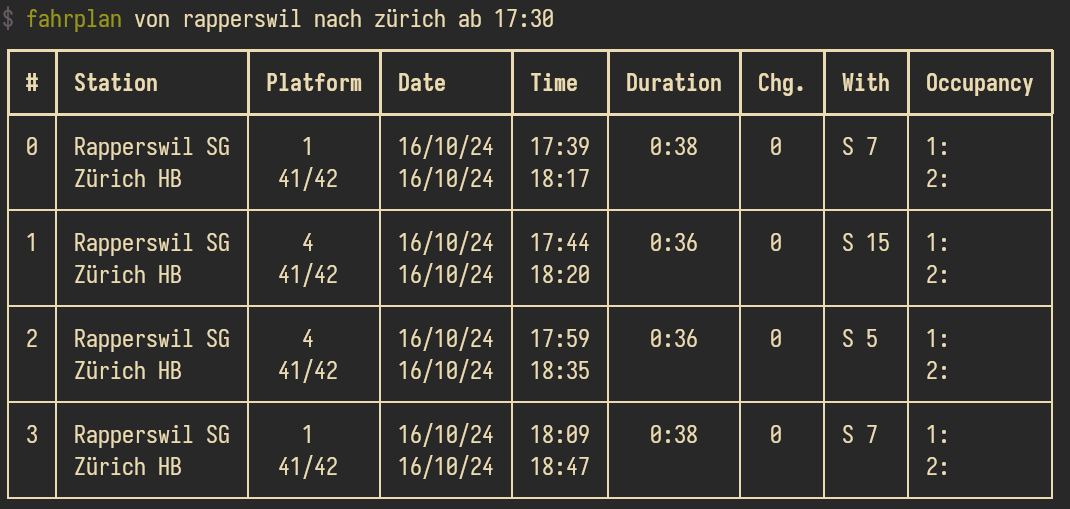
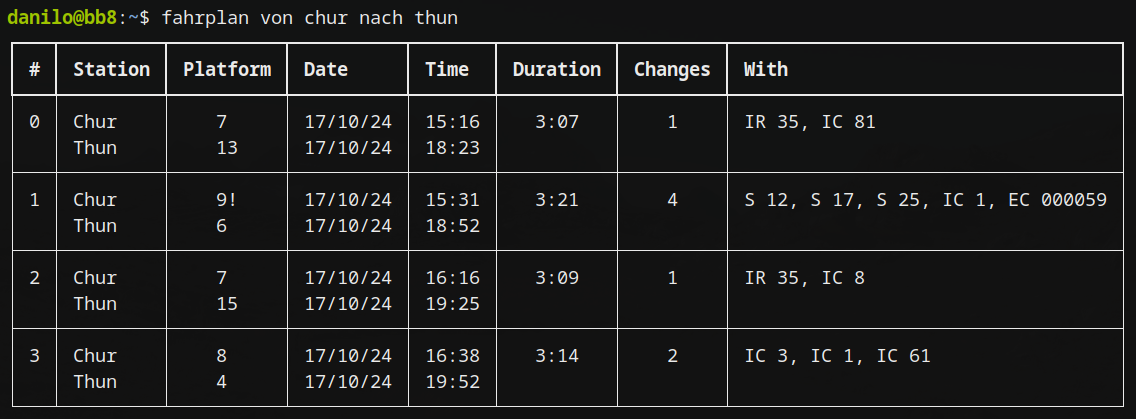
Remove occupancy from output
The occupancy isn't provided anymore by the API since 2017:
https://github.com/OpendataCH/Transport/issues/163

Since we now have more space available, I renamed the "Chg." column to
"Changes".

diff --git a/fahrplan/api.py b/fahrplan/api.py
@@ -6,14 +6,6 @@ import dateutil.parser
 import sys
 from .helpers import perror
 
-occupancies = {
-    None: '',
-    -1: '',
-    0: 'Low',  # todo check
-    1: 'Low',
-    2: 'Medium',
-    3: 'High',
-}
 API_URL = 'http://transport.opendata.ch/v1'
 
 
@@ -68,15 +60,6 @@ def _parse_section(con_section, connection):
     section['arrival'] = dateutil.parser.parse(arrival['arrival'])
     section['platform_from'] = "" if walk else departure['platform']
     section['platform_to'] = arrival['platform']
-    if walk:
-        section['occupancy1st'] = ''
-        section['occupancy2nd'] = ''
-    elif journey:
-        section['occupancy1st'] = occupancies.get(con_section['journey']['capacity1st'], '')
-        section['occupancy2nd'] = occupancies.get(con_section['journey']['capacity2nd'], '')
-    else:
-        section['occupancy1st'] = occupancies.get(connection['capacity1st'], '')
-        section['occupancy2nd'] = occupancies.get(connection['capacity2nd'], '')
     return section
 
 
@@ -107,8 +90,6 @@ def _parse_connection(connection, include_sections=False):
         in connection['sections']
         if section['journey'] is not None
     )
-    data['occupancy1st'] = occupancies.get(connection['capacity1st'], '')
-    data['occupancy2nd'] = occupancies.get(connection['capacity2nd'], '')
 
     # Sections
     con_sections = sorted(connection['sections'], key=keyfunc)
@@ -127,7 +108,7 @@ def _parse_connection(connection, include_sections=False):
         for p in ["station_to", "arrival"]:
             section[p] = to[p]
         # Get information from connection
-        for p in ["occupancy2nd", "occupancy1st", "travelwith", "change_count"]:
+        for p in ["travelwith", "change_count"]:
             section[p] = data[p]
         data['sections'] = [section]
 

diff --git a/fahrplan/display.py b/fahrplan/display.py
@@ -23,7 +23,6 @@ def _get_connection_row(i, connection):
             lambda x: [str((x['arrival'] - x['departure'])).rsplit(':', 1)[0], ' '],  # Duration
             None,
             lambda x: [x['travelwith'], ' '],  # With
-            lambda x: ['1: ' + x['occupancy1st'], '2: ' + x['occupancy2nd']]  # Occupancy
     ]:
         if p is None:
             row.append(connection['change_count'])
@@ -46,9 +45,8 @@ def connectionsTable(connections, output_format):
     table.add_column("Date", justify="left", vertical="top")
     table.add_column("Time", justify="left", vertical="top")
     table.add_column("Duration", justify="center", vertical="top")
-    table.add_column("Chg.", justify="center", vertical="middle")
+    table.add_column("Changes", justify="center", vertical="middle")
     table.add_column("With", justify="left", vertical="top")
-    table.add_column("Occupancy", justify="left", vertical="top")
     # Connection rows
     for i, connection in enumerate(connections):
         table.add_row(*_get_connection_row(i, connection))

diff --git a/fahrplan/tests/test.py b/fahrplan/tests/test.py
@@ -202,7 +202,7 @@ class TestBasicQuery(unittest.TestCase):
     def testHeadline(self):
         """Test the headline items."""
         headline_items = ['Station', 'Platform', 'Date', 'Time',
-                          'Duration', 'Chg.', 'With', 'Occupancy']
+                          'Duration', 'Changes', 'With']
         for item in headline_items:
             self.assertIn(item, self.rows[1])
 
